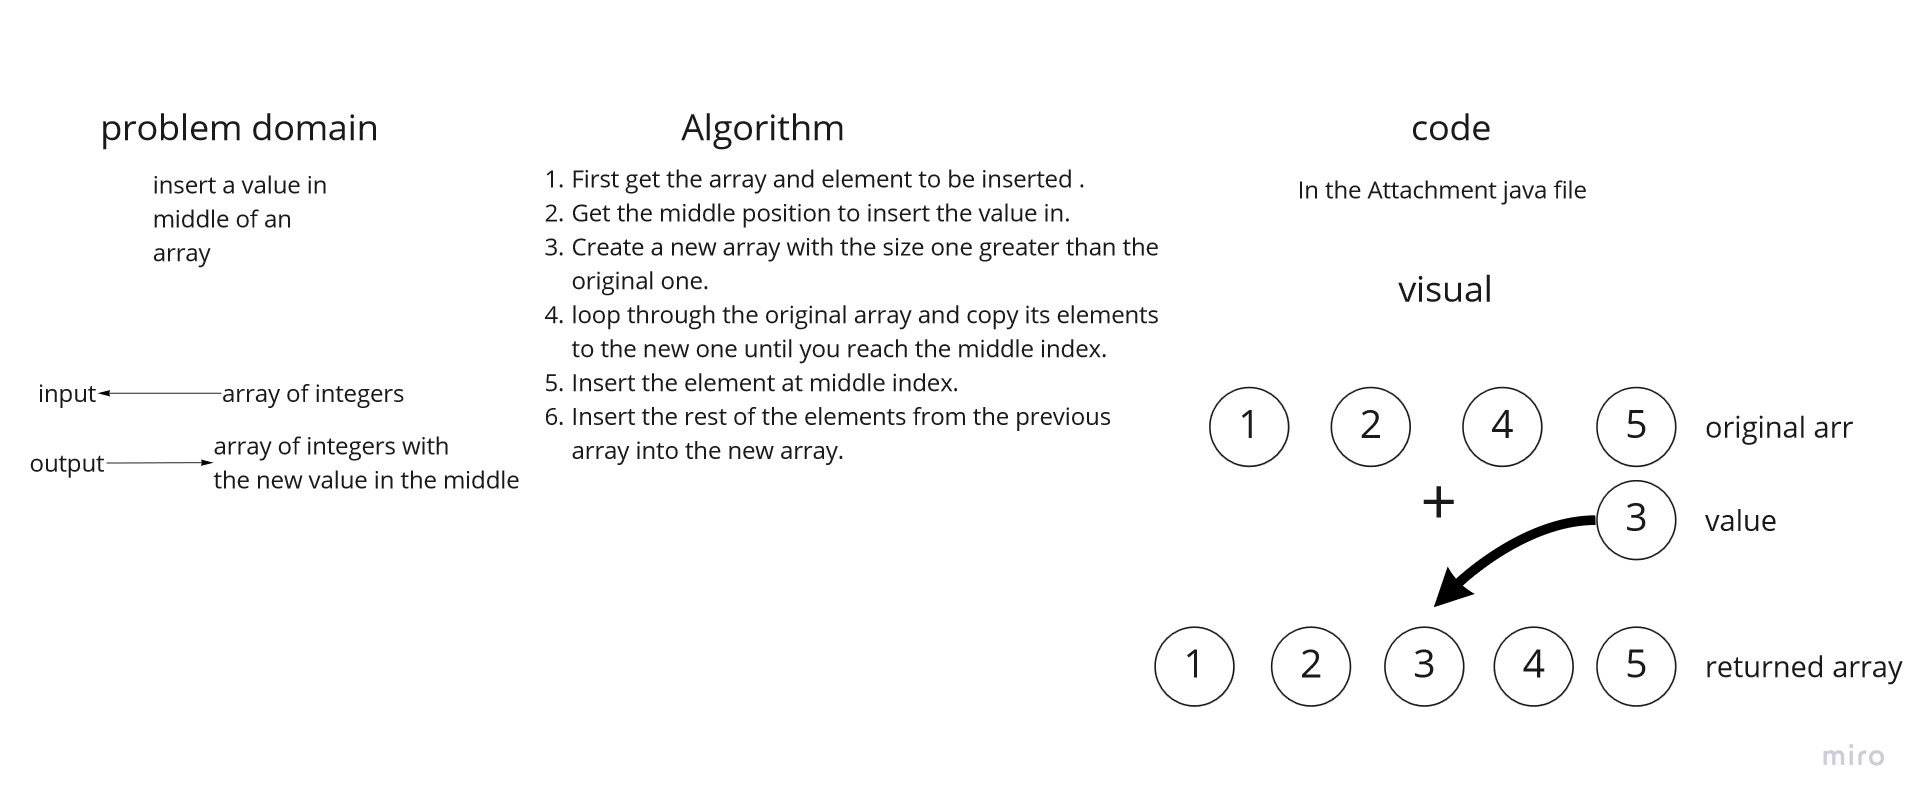
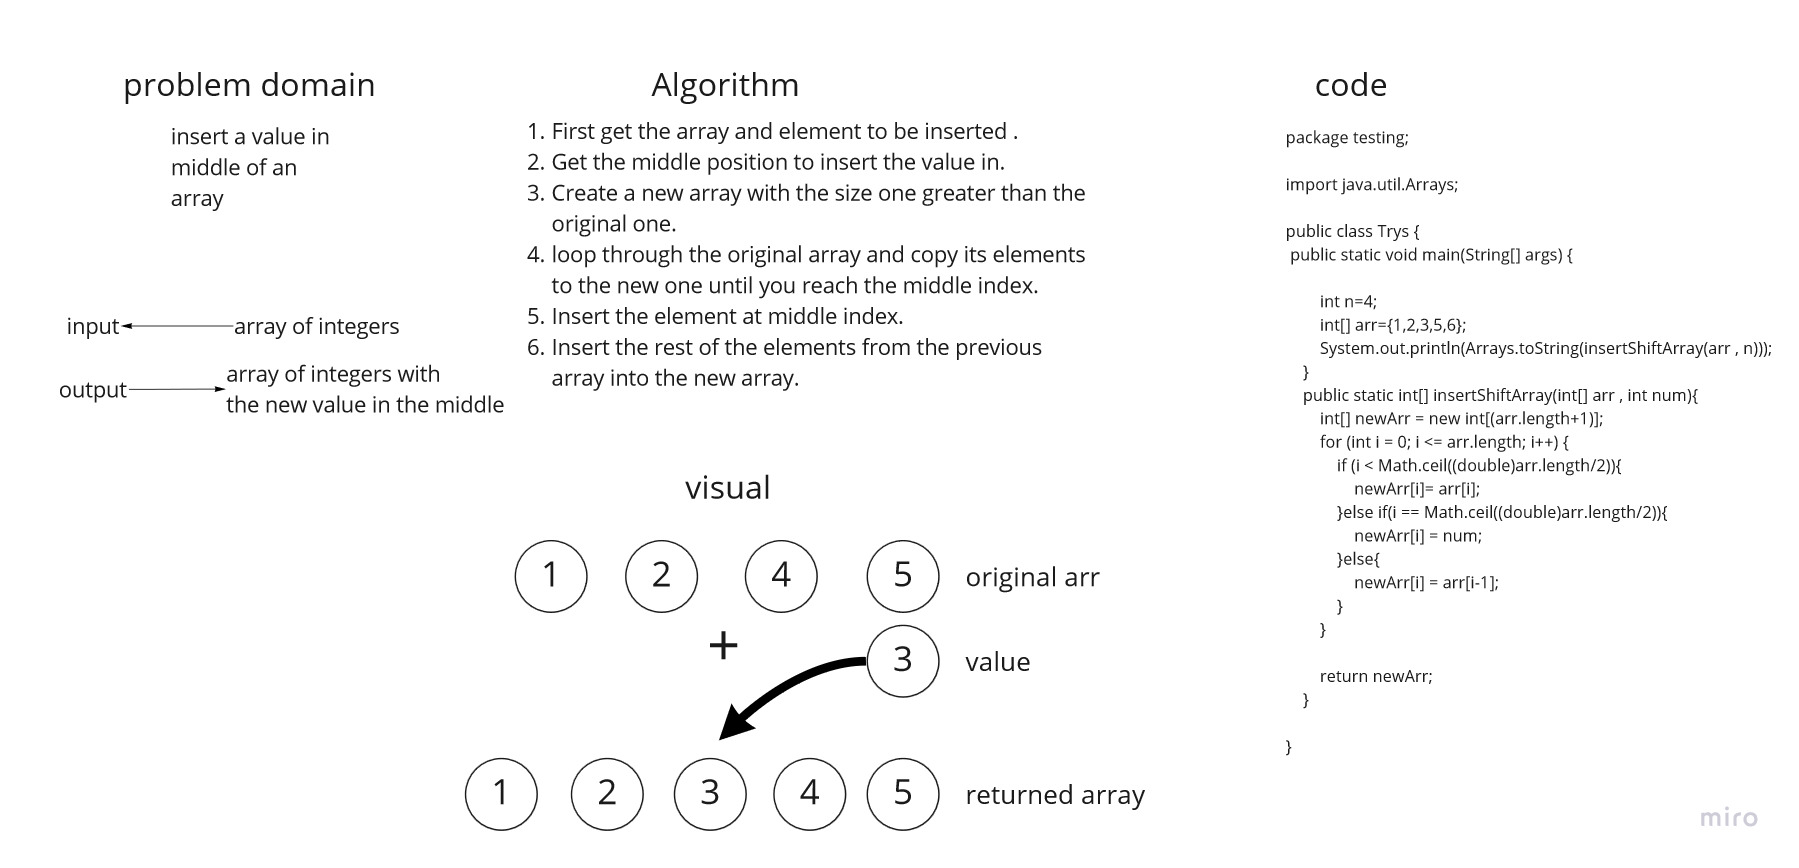
odifying

diff --git a/array-insert-shift/Trys.java b/array-insert-shift/Trys.java
@@ -1,10 +1,11 @@
+
 import java.util.Arrays;
 
 public class Trys {
     public static void main(String[] args) {
-        
-        int n=3;
-        int[] arr={1,2,4,5};
+
+        int n=4;
+        int[] arr={1,2,3,5,6};
         System.out.println(Arrays.toString(insertShiftArray(arr , n)));
     }
 
@@ -13,9 +14,9 @@ public class Trys {
     public static int[] insertShiftArray(int[] arr , int num){
         int[] newArr = new int[(arr.length+1)];
         for (int i = 0; i <= arr.length; i++) {
-            if (i < arr.length/2){
+            if (i < Math.ceil((double)arr.length/2)){
                 newArr[i]= arr[i];
-            }else if(i == arr.length/2){
+            }else if(i == Math.ceil((double)arr.length/2)){
                 newArr[i] = num;
             }else{
                 newArr[i] = arr[i-1];

diff --git a/array-binary-search/binarySearch.java b/array-binary-search/binarySearch.java
@@ -1,7 +1,3 @@
-/*
- * This Java source file was generated by the Gradle 'init' task.
- */
-package testing;
 
 public class App {
     public String getGreeting() {

diff --git a/array-binary-search/README.md b/array-binary-search/README.md
@@ -3,4 +3,4 @@
 ## find a specific value in a sorted array, using a binary search algorithm .
 
 ## Whiteboard Process
-![BinarySearch](BinarySearch.jpg)
+![BinarySearch](array-binary-search.jpg)
